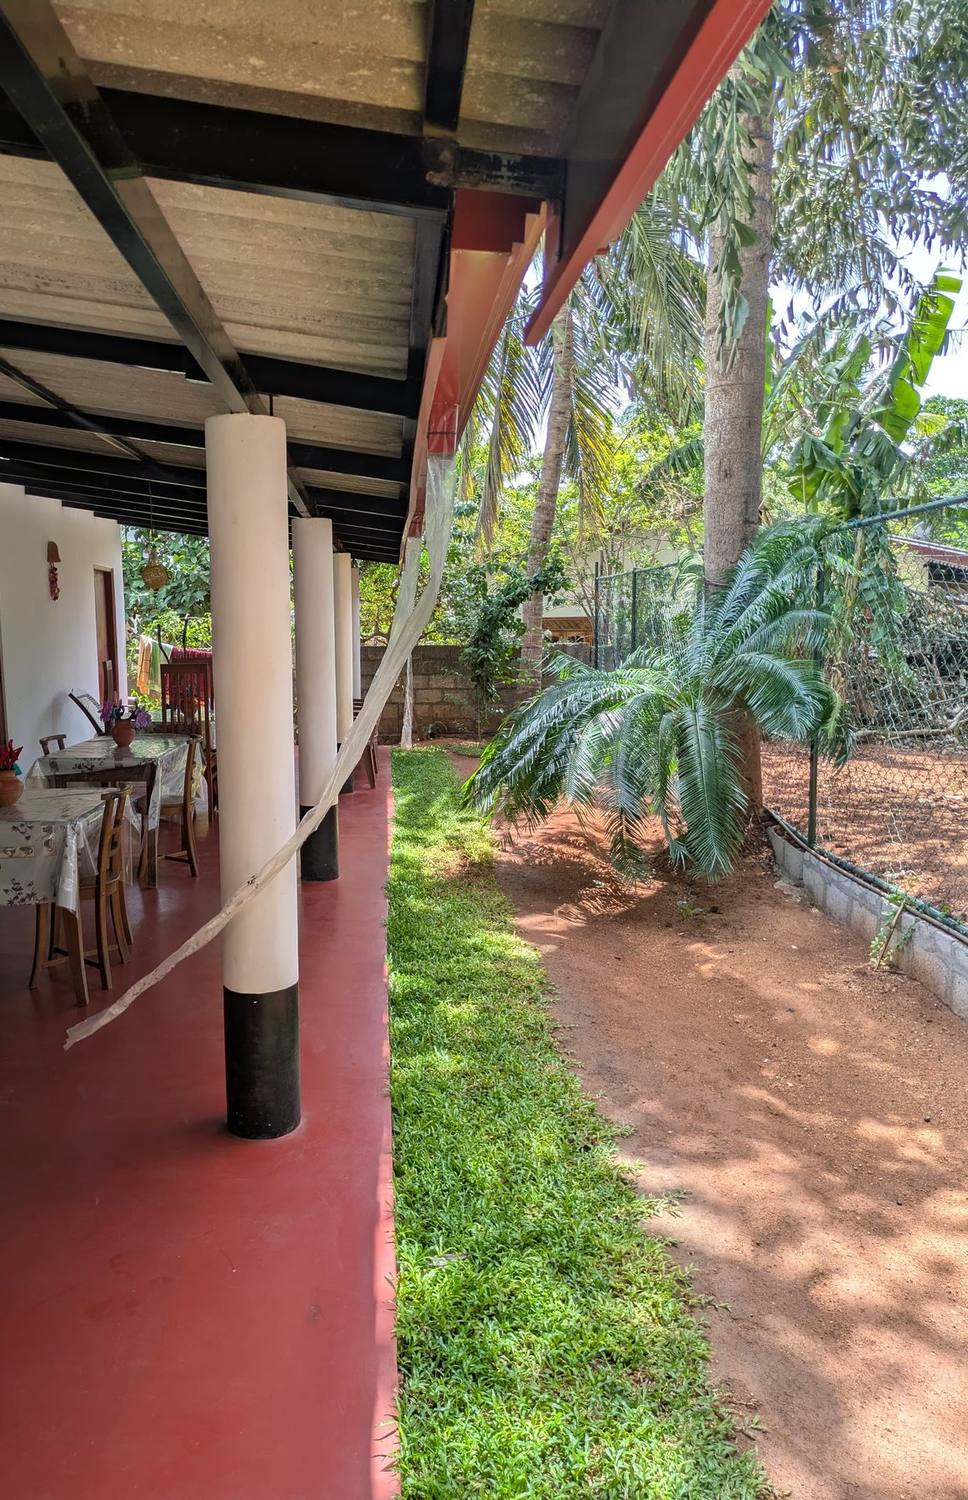
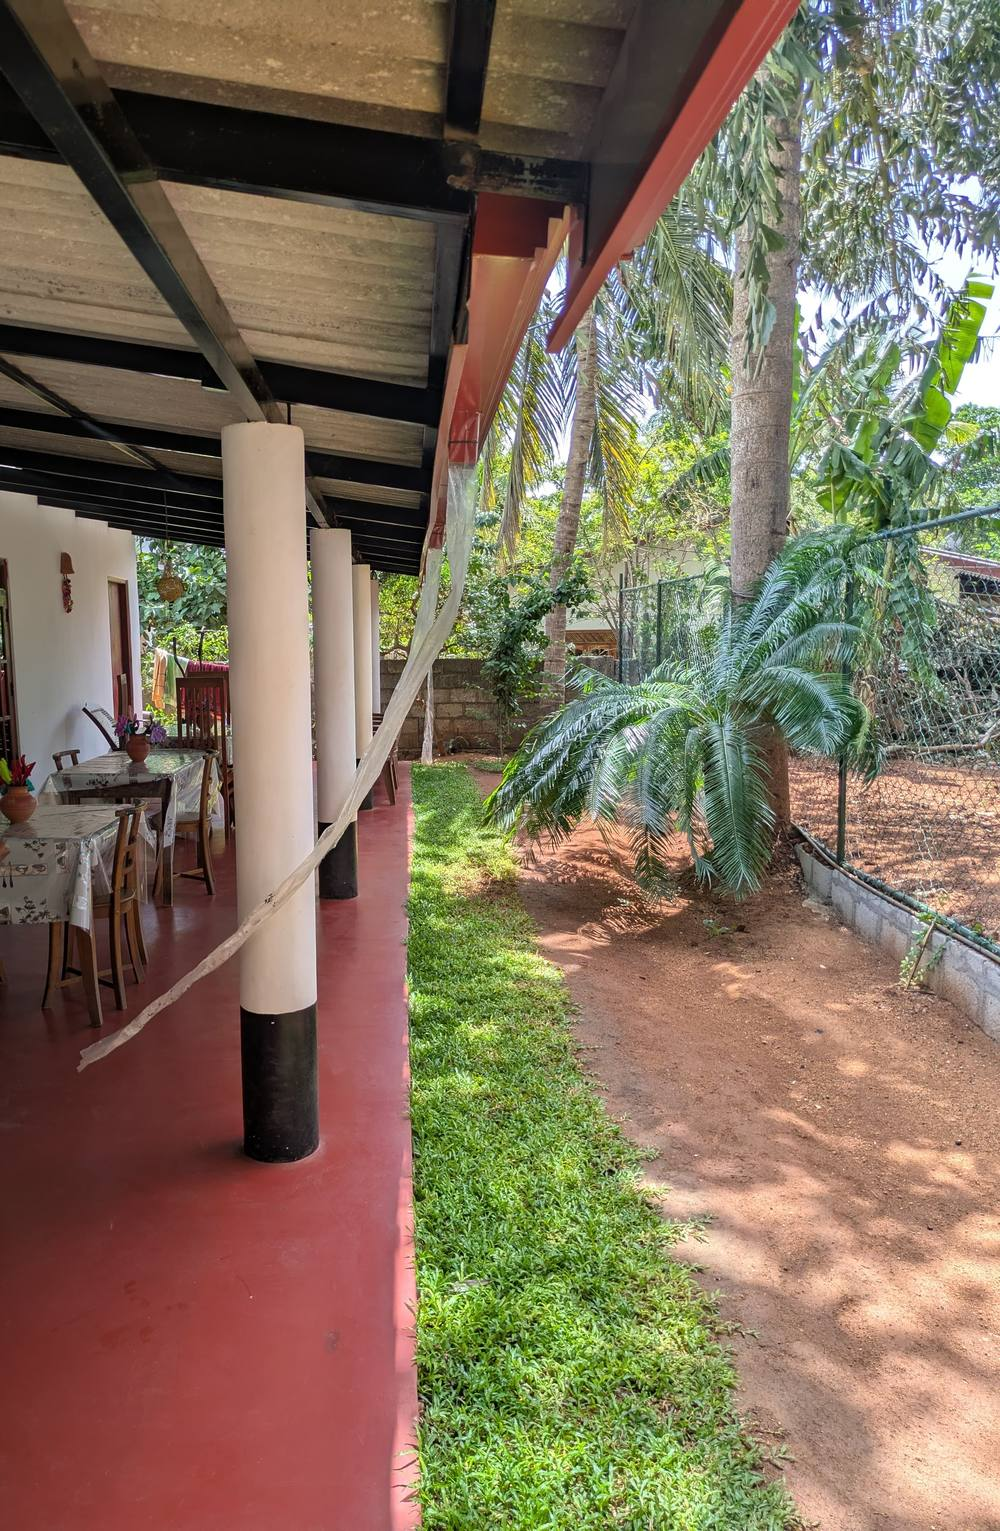
Drop the empty reviews section, wire the real map link, sharpen the hero
There are no guest reviews yet, and three empty placeholder cards made a worse
impression than no section at all, so the whole block is gone from the home
page along with its five translation keys in all eight languages. The README
now explains how to bring it back when real reviews exist, and why they should
be quoted verbatim rather than invented.

The map now points at the villa's own Google listing: the short link Sriyani
shares drives the "Open in Google Maps" button and the JSON-LD hasMap field,
and the embedded map searches on the business name plus the street address
rather than the address alone, so it is far likelier to land on the right pin.

veranda-day.jpg is replaced with the full-resolution original (3472x4624 rather
than the 1800px copy), cropped 13% from the left so the elderly woman seated on
the veranda stays out of frame, as before. Published at 1000x1531: downscaling
from the real original rather than from an already-reduced copy makes it
visibly sharper at the same file size, which matters because this is the first
image the page paints.

The porch and egg-curry photographs sent alongside are the same shots already
on the site, only marginally larger, so they are left as they are.

Still open: the Sacred City photo (its picsart CDN link is unreachable from
here) and exact geo coordinates for the JSON-LD, which still carry the
Anuradhapura city centre as a placeholder.

diff --git a/index.html b/index.html
@@ -271,7 +271,7 @@
     "addressCountry": "LK"
   },
   "geo": { "@type": "GeoCoordinates", "latitude": 8.3114, "longitude": 80.4037 },
-  "hasMap": "https://www.google.com/maps?q=No.+3323,+Stage+3,+Anuradhapura,+Sri+Lanka",
+  "hasMap": "https://maps.app.goo.gl/FCf2TxpAqb5jDdWi8",
   "availableLanguage": ["en", "si", "ta"],
   "potentialAction": {
     "@type": "ReserveAction",
@@ -321,7 +321,7 @@
 
   <!-- ============================ HERO ============================ -->
   <section class="relative min-h-[78vh] sm:min-h-[86vh] flex items-end overflow-hidden">
-    <img src="images/veranda-day.jpg" width="968" height="1500" fetchpriority="high" decoding="async"
+    <img src="images/veranda-day.jpg" width="1000" height="1531" fetchpriority="high" decoding="async"
          alt="The open veranda of Abha Sewana Villa looking onto the garden"
          data-i18n="alt.veranda" data-i18n-attr="alt"
          class="absolute inset-0 w-full h-full object-cover" style="object-position:50% 45%">
@@ -439,7 +439,7 @@
                data-i18n="alt.dinnerPots" data-i18n-attr="alt">
         </figure>
         <figure class="ph zoomable rounded-2xl aspect-[3/4]" data-lightbox="dining">
-          <img src="images/veranda-day.jpg" width="968" height="1500" loading="lazy" decoding="async"
+          <img src="images/veranda-day.jpg" width="1000" height="1531" loading="lazy" decoding="async"
                alt="The veranda opening onto the garden"
                data-i18n="alt.verandaGarden" data-i18n-attr="alt">
         </figure>
@@ -479,28 +479,6 @@
       </div>
 
       <div data-reveal class="mt-10 masonry"><figure class="tile" data-lightbox="gallery"><img src="images/sriyani-chef.jpg" width="1125" height="1500" loading="lazy" decoding="async" alt="Sriyani in her chef's hat with a dish she has just cooked" data-i18n="alt.chef" data-i18n-attr="alt"></figure><figure class="tile" data-lightbox="gallery"><img src="images/entrance-porch.jpg" width="1125" height="1500" loading="lazy" decoding="async" alt="Guests on the front porch of the villa" data-i18n="alt.porch" data-i18n-attr="alt"></figure><figure class="tile" data-lightbox="gallery"><img src="images/cooking-guests.jpg" width="1500" height="1125" loading="lazy" decoding="async" alt="Guests with Sriyani in her kitchen" data-i18n="alt.cookGuests" data-i18n-attr="alt"></figure><figure class="tile" data-lightbox="gallery"><img src="images/cooking-serving.jpg" width="1500" height="1035" loading="lazy" decoding="async" alt="Sriyani serving the curries we cooked together" data-i18n="alt.cookServe" data-i18n-attr="alt"></figure><figure class="tile" data-lightbox="gallery"><img src="images/dinner-egg-curry.jpg" width="999" height="1500" loading="lazy" decoding="async" alt="Egg curry in a clay pot" data-i18n="alt.eggCurry" data-i18n-attr="alt"></figure><figure class="tile" data-lightbox="gallery"><img src="images/dinner-guests.jpg" width="1190" height="1500" loading="lazy" decoding="async" alt="Guests around the dinner table on the veranda" data-i18n="alt.dinnerGuests" data-i18n-attr="alt"></figure><figure class="tile" data-lightbox="gallery"><img src="images/market-tour-2.jpg" width="1280" height="720" loading="lazy" decoding="async" alt="Choosing vegetables at the Anuradhapura market" data-i18n="alt.market2" data-i18n-attr="alt"></figure><figure class="tile" data-lightbox="gallery"><img src="images/sriyani-breakfast.jpg" width="1125" height="1500" loading="lazy" decoding="async" alt="Sriyani setting out breakfast" data-i18n="alt.breakfastServe" data-i18n-attr="alt"></figure><figure class="tile" data-lightbox="gallery"><img src="images/breakfast-spread-1.jpg" width="1125" height="1500" loading="lazy" decoding="async" alt="Sri Lankan breakfast served in clay bowls" data-i18n="alt.breakfast1" data-i18n-attr="alt"></figure><figure class="tile" data-lightbox="gallery"><img src="images/breakfast-spread-2.jpg" width="1125" height="1500" loading="lazy" decoding="async" alt="Fresh fruit and curries laid out for breakfast" data-i18n="alt.breakfast2" data-i18n-attr="alt"></figure><figure class="tile" data-lightbox="gallery"><img src="images/guest-sriyani-garden.jpg" width="999" height="1500" loading="lazy" decoding="async" alt="Sriyani with a guest in the garden" data-i18n="alt.garden" data-i18n-attr="alt"></figure><figure class="tile" data-lightbox="gallery"><img src="images/sriyani-kitchen.jpg" width="1125" height="1500" loading="lazy" decoding="async" alt="Sriyani in the family kitchen" data-i18n="alt.kitchen" data-i18n-attr="alt"></figure><figure class="tile" data-lightbox="gallery"><img src="images/entrance-gate.jpg" width="1127" height="1500" loading="lazy" decoding="async" alt="The white gateposts and green sign of Abha Sewana Villa" data-i18n="alt.gate" data-i18n-attr="alt"></figure></div>
-    </div>
-  </section>
-
-  <!-- =========================== REVIEWS ==========================
-       THREE EMPTY REVIEW SLOTS.
-       To publish a real review, replace the <p> that says "coming soon"
-       with the guest's words, and fill in the name and country below it.
-       Example:
-         <p class="...">"We felt like part of the family from the first evening."</p>
-         <p class="...">Marie &amp; Paul &mdash; France</p>
-       =============================================================== -->
-  <section>
-    <div class="mx-auto max-w-6xl px-5 sm:px-8 py-16 sm:py-24">
-      <div data-reveal class="max-w-2xl">
-        <p class="eyebrow" data-i18n="reviews.eyebrow">Guests</p>
-        <h2 class="mt-3 font-serif text-forest text-[1.9rem] sm:text-4xl leading-tight"
-            data-i18n="reviews.title">What our guests say</h2>
-        <div class="rule mt-5 mb-6"></div>
-        <p class="lead" data-i18n="reviews.intro">The first stories from our guests will appear here soon. Until then, you can read the reviews left on Booking.com.</p>
-      </div>
-
-      <div data-reveal class="mt-10 grid gap-5 sm:grid-cols-3"><figure class="rounded-2xl border border-dashed border-clay/30 bg-white/60 p-7 flex flex-col gap-4 min-h-[13rem]"><svg viewBox="0 0 24 24" width="26" height="26" fill="currentColor" aria-hidden="true" class="text-ochre/50"><path d="M9.6 5.4c-3.4 1.6-5.6 4.6-5.6 8.4 0 3.1 1.9 5.1 4.4 5.1 2.2 0 3.9-1.6 3.9-3.7 0-2.1-1.5-3.6-3.4-3.6-.4 0-.9.1-1 .1.3-1.6 1.9-3.5 3.8-4.5l-2.1-1.8zm9.2 0c-3.4 1.6-5.6 4.6-5.6 8.4 0 3.1 1.9 5.1 4.4 5.1 2.2 0 3.9-1.6 3.9-3.7 0-2.1-1.5-3.6-3.4-3.6-.4 0-.9.1-1 .1.3-1.6 1.9-3.5 3.8-4.5l-2.1-1.8z"/></svg><blockquote class="grow"><p class="text-[#7a6a5c] italic leading-relaxed" data-i18n="reviews.soon">A guest review will appear here soon.</p></blockquote><figcaption class="text-sm text-[#a5978a]" data-i18n="reviews.placeholderName">Name &mdash; country</figcaption></figure><figure class="rounded-2xl border border-dashed border-clay/30 bg-white/60 p-7 flex flex-col gap-4 min-h-[13rem]"><svg viewBox="0 0 24 24" width="26" height="26" fill="currentColor" aria-hidden="true" class="text-ochre/50"><path d="M9.6 5.4c-3.4 1.6-5.6 4.6-5.6 8.4 0 3.1 1.9 5.1 4.4 5.1 2.2 0 3.9-1.6 3.9-3.7 0-2.1-1.5-3.6-3.4-3.6-.4 0-.9.1-1 .1.3-1.6 1.9-3.5 3.8-4.5l-2.1-1.8zm9.2 0c-3.4 1.6-5.6 4.6-5.6 8.4 0 3.1 1.9 5.1 4.4 5.1 2.2 0 3.9-1.6 3.9-3.7 0-2.1-1.5-3.6-3.4-3.6-.4 0-.9.1-1 .1.3-1.6 1.9-3.5 3.8-4.5l-2.1-1.8z"/></svg><blockquote class="grow"><p class="text-[#7a6a5c] italic leading-relaxed" data-i18n="reviews.soon">A guest review will appear here soon.</p></blockquote><figcaption class="text-sm text-[#a5978a]" data-i18n="reviews.placeholderName">Name &mdash; country</figcaption></figure><figure class="rounded-2xl border border-dashed border-clay/30 bg-white/60 p-7 flex flex-col gap-4 min-h-[13rem]"><svg viewBox="0 0 24 24" width="26" height="26" fill="currentColor" aria-hidden="true" class="text-ochre/50"><path d="M9.6 5.4c-3.4 1.6-5.6 4.6-5.6 8.4 0 3.1 1.9 5.1 4.4 5.1 2.2 0 3.9-1.6 3.9-3.7 0-2.1-1.5-3.6-3.4-3.6-.4 0-.9.1-1 .1.3-1.6 1.9-3.5 3.8-4.5l-2.1-1.8zm9.2 0c-3.4 1.6-5.6 4.6-5.6 8.4 0 3.1 1.9 5.1 4.4 5.1 2.2 0 3.9-1.6 3.9-3.7 0-2.1-1.5-3.6-3.4-3.6-.4 0-.9.1-1 .1.3-1.6 1.9-3.5 3.8-4.5l-2.1-1.8z"/></svg><blockquote class="grow"><p class="text-[#7a6a5c] italic leading-relaxed" data-i18n="reviews.soon">A guest review will appear here soon.</p></blockquote><figcaption class="text-sm text-[#a5978a]" data-i18n="reviews.placeholderName">Name &mdash; country</figcaption></figure></div>
     </div>
   </section>
 

diff --git a/contact.html b/contact.html
@@ -271,7 +271,7 @@
     "addressCountry": "LK"
   },
   "geo": { "@type": "GeoCoordinates", "latitude": 8.3114, "longitude": 80.4037 },
-  "hasMap": "https://www.google.com/maps?q=No.+3323,+Stage+3,+Anuradhapura,+Sri+Lanka",
+  "hasMap": "https://maps.app.goo.gl/FCf2TxpAqb5jDdWi8",
   "availableLanguage": ["en", "si", "ta"],
   "potentialAction": {
     "@type": "ReserveAction",
@@ -381,11 +381,11 @@
           <div class="rounded-2xl overflow-hidden border border-clay/15 bg-sand h-[22rem] sm:h-[26rem] lg:h-full lg:min-h-[30rem]">
             <iframe
               title="Map showing Abha Sewana Villa in Anuradhapura"
-              src="https://www.google.com/maps?q=No.+3323,+Stage+3,+Anuradhapura,+Sri+Lanka&amp;hl=en&amp;z=15&amp;output=embed"
+              src="https://www.google.com/maps?q=Abha+Sewana+Villa,+No.+3323,+Stage+3,+Anuradhapura,+Sri+Lanka&amp;hl=en&amp;z=15&amp;output=embed"
               width="600" height="450" style="border:0;width:100%;height:100%" loading="lazy"
               referrerpolicy="no-referrer-when-downgrade" allowfullscreen></iframe>
           </div>
-          <a href="https://www.google.com/maps/search/?api=1&amp;query=No.+3323,+Stage+3,+Anuradhapura,+Sri+Lanka" target="_blank" rel="noopener"
+          <a href="https://maps.app.goo.gl/FCf2TxpAqb5jDdWi8" target="_blank" rel="noopener"
              class="mt-3 inline-flex items-center gap-1.5 text-sm text-clay hover:text-oxide">
             <span data-i18n="contact.openMaps">Open in Google Maps</span>
             <svg viewBox="0 0 20 20" width="13" height="13" fill="none" stroke="currentColor" stroke-width="2"

diff --git a/experiences.html b/experiences.html
@@ -271,7 +271,7 @@
     "addressCountry": "LK"
   },
   "geo": { "@type": "GeoCoordinates", "latitude": 8.3114, "longitude": 80.4037 },
-  "hasMap": "https://www.google.com/maps?q=No.+3323,+Stage+3,+Anuradhapura,+Sri+Lanka",
+  "hasMap": "https://maps.app.goo.gl/FCf2TxpAqb5jDdWi8",
   "availableLanguage": ["en", "si", "ta"],
   "potentialAction": {
     "@type": "ReserveAction",

diff --git a/README.md b/README.md
@@ -205,37 +205,23 @@ simplement pas cette langue — il restera en anglais, il ne plantera pas.
 
 ---
 
-## 5. Ajouter un avis de client
+## 5. Ajouter des avis de clients plus tard
 
-Trois emplacements vides attendent sur la page d'accueil, dans la section
-**« What our guests say »**.
+La section « avis clients » a été retirée du site : il n'y en avait pas encore,
+et trois cadres vides font moins bonne impression que pas de section du tout.
 
-Ouvrez `index.html`, cherchez `reviews.soon`. Vous trouverez trois blocs
-identiques. Dans celui que vous voulez remplir :
+Quand vous aurez de vrais avis, deux possibilités :
 
-```html
-<p class="..." data-i18n="reviews.soon">A guest review will appear here soon.</p>
-```
-devient
-```html
-<p class="...">"We felt part of the family from the very first evening."</p>
-```
+**La simple** — laissez-les sur Booking.com. Les voyageurs les y lisent déjà, et
+le site renvoie vers votre page à chaque bouton.
 
-et juste en dessous :
+**Remettre une section sur le site** — dites-le moi et je la remets, ou faites-la
+remettre : le code existe toujours dans l'historique Git du projet (commit
+« Add Abha Sewana Villa static site »), avec les traductions dans les 9 langues.
 
-```html
-<figcaption class="..." data-i18n="reviews.placeholderName">Name — country</figcaption>
-```
-devient
-```html
-<figcaption class="...">Marie &amp; Paul — France</figcaption>
-```
-
-> Supprimez bien le `data-i18n="..."` sur les deux lignes que vous remplissez.
-> Sans ça, le vrai avis serait remplacé par le texte d'attente dans les
-> autres langues.
-
----
+Dans les deux cas, recopiez les avis **mot pour mot** et indiquez le prénom et
+le pays. Un avis inventé se repère, et c'est exactement ce qui ferait perdre au
+site la confiance que le reste construit.
 
 ## 6. Changer un numéro, l'adresse, le lien Booking.com
 
